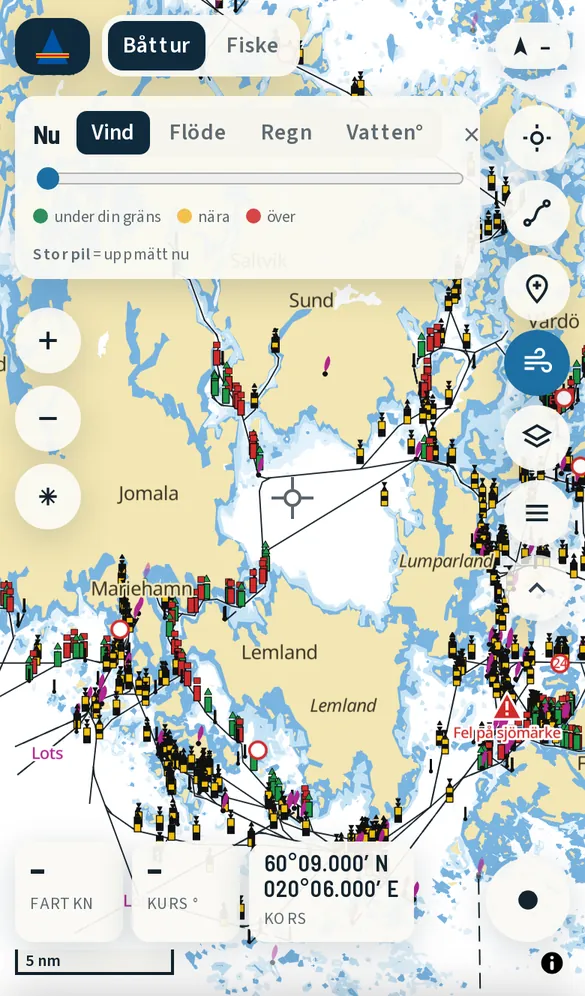
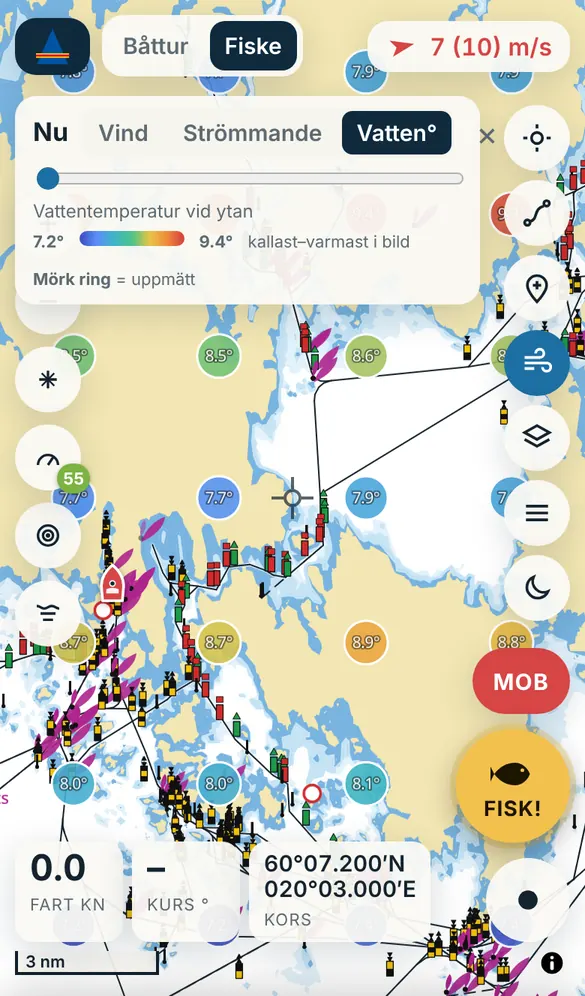
Skärmbilder: behåll väderbilderna, fiskekartan på sjökort
Claude-Session: https://claude.ai/code/session_01F84gfg3LJnFRzcKhyLVgTo

diff --git a/scripts/landing-shots.js b/scripts/landing-shots.js
@@ -34,7 +34,7 @@ const SHOTS = [
   { name: "vattenstand", dev: { ...devices["iPhone 13"], deviceScaleFactor: 2 }, view: { lat: 60.045, lng: 19.985, z: 12 }, base: "chart",
     run: `openWaterLevel(); await sleep(5000); setSheetState($("#sheet"), 2, true); await sleep(600);` },
   { name: "vattentemp", dev: { ...devices["iPhone 13"], deviceScaleFactor: 2 }, view: { lat: 60.15, lng: 20.1, z: 8.8 }, base: "chart", wx: "water" },
-  { name: "fiskekarta", dev: { ...devices["iPhone 13"], deviceScaleFactor: 2 }, view: { lat: 60.045, lng: 19.985, z: 13.4 }, base: "sat", mode: "fiske" },
+  { name: "fiskekarta", dev: { ...devices["iPhone 13"], deviceScaleFactor: 2 }, view: { lat: 60.045, lng: 19.985, z: 13.6 }, base: "chart", mode: "fiske" },
   { name: "gpx", dev: { ...devices["iPhone 13"], deviceScaleFactor: 2 }, view: { lat: 60.045, lng: 19.985, z: 12 }, base: "chart",
     run: `openPlotter(); await sleep(1500); setSheetState($("#sheet"), 2, true); await sleep(600);` },
   { name: "dator", dev: { viewport: { width: 1440, height: 860 }, deviceScaleFactor: 1.5 }, view: { lat: 60.0835, lng: 19.962, z: 13.2 }, base: "chart" },
